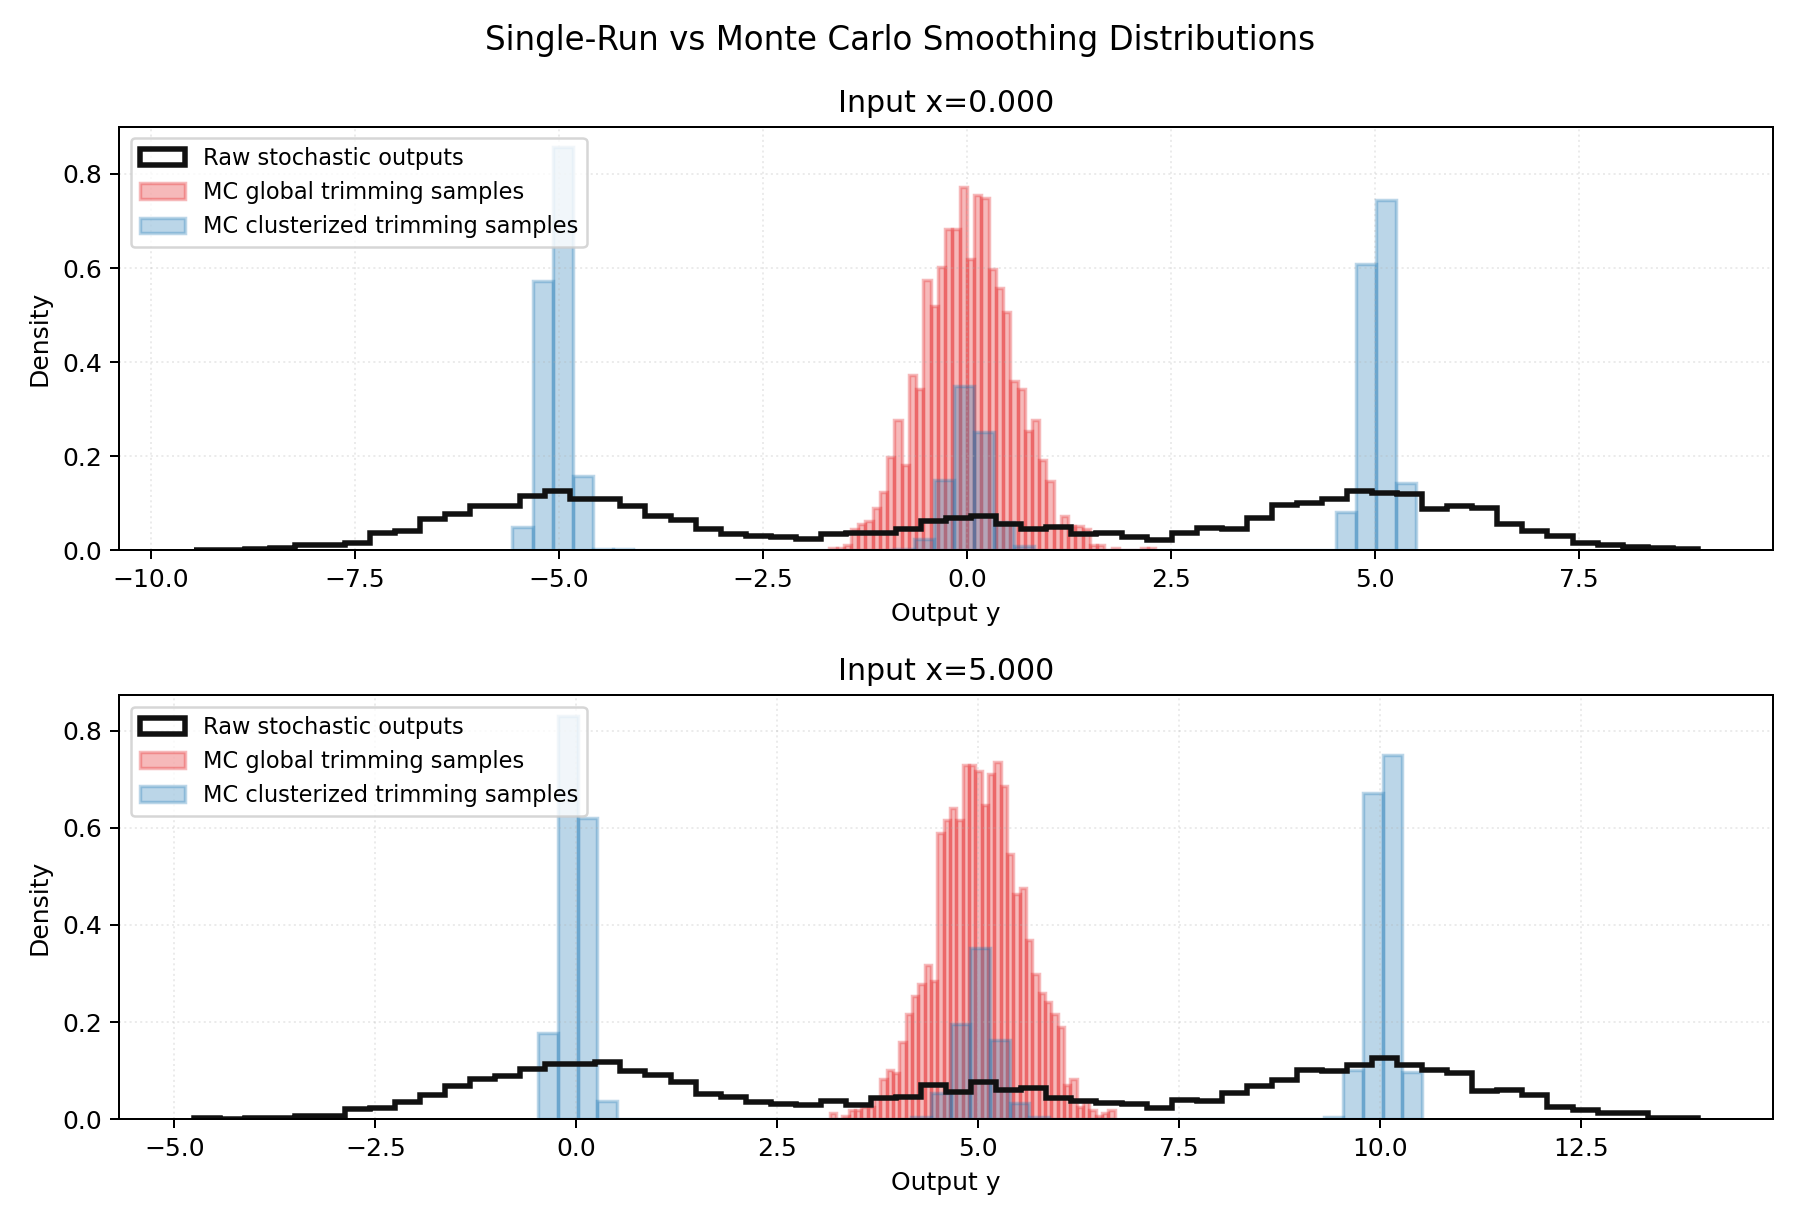
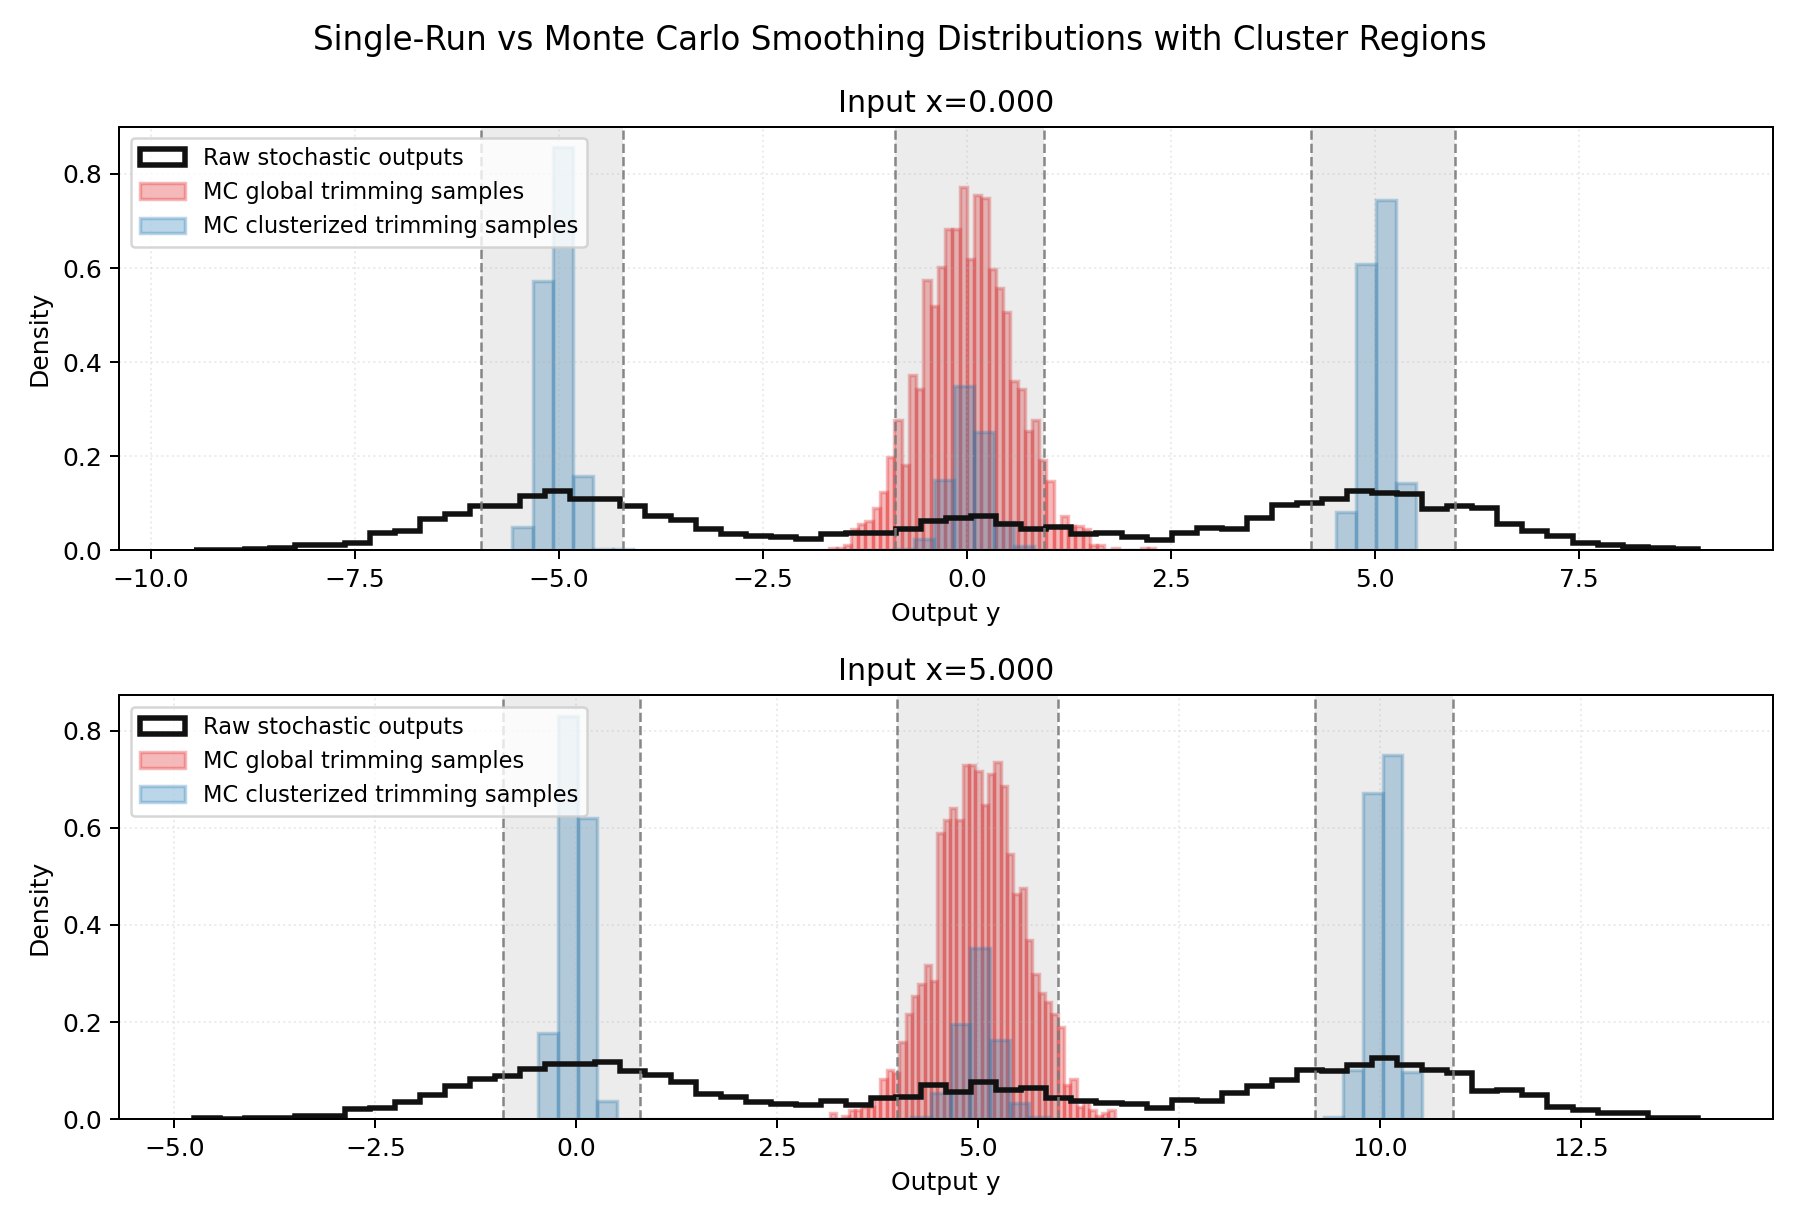
add region definition to experiments

Changed region(s): [[0.1867, 0.0, 0.8089, 0.0621]]

diff --git a/plotting.py b/plotting.py
@@ -17,6 +17,7 @@ def plot_experiment_results(
 	global_trimmed_mc_samples: torch.Tensor,
 	clusterized_mc_samples: torch.Tensor,
 	output_dir: Path,
+	region=None,
 ) -> list[Path]:
 	"""Create and save charts for the smoothing experiment."""
 	output_dir.mkdir(parents=True, exist_ok=True)
@@ -25,6 +26,8 @@ def plot_experiment_results(
 	outputs_np = _to_numpy(outputs[:, :, 0])
 	global_mc_np = _to_numpy(global_trimmed_mc_samples[:, :, 0])
 	clusterized_mc_np = _to_numpy(clusterized_mc_samples[:, :, 0])
+	region_lower_np = _to_numpy(region.lower[:, :, 0]) if region is not None else None
+	region_upper_np = _to_numpy(region.upper[:, :, 0]) if region is not None else None
 
 	m = outputs_np.shape[0]
 	colors = {
@@ -69,13 +72,24 @@ def plot_experiment_results(
 			label="MC clusterized trimming samples",
 		)
 
+		if region_lower_np is not None and region_upper_np is not None:
+			k = region_lower_np.shape[1]
+			region_color = "#7A7A7A"
+			for j in range(k):
+				left = region_lower_np[i, j]
+				right = region_upper_np[i, j]
+				ax.axvspan(left, right, color=region_color, alpha=0.14, lw=0)
+				ax.axvline(left, color=region_color, linestyle="--", linewidth=1.0, alpha=0.9)
+				ax.axvline(right, color=region_color, linestyle="--", linewidth=1.0, alpha=0.9)
+				ax.plot([], [], color=region_color, linewidth=3, alpha=0.7)
+
 		ax.set_title(f"Input x={x_np[i]:.3f}")
 		ax.set_xlabel("Output y")
 		ax.set_ylabel("Density")
 		ax.grid(alpha=0.25, linestyle=":")
 		ax.legend(loc="upper left", fontsize=9)
 
-	fig1.suptitle("Single-Run vs Monte Carlo Smoothing Distributions", fontsize=13)
+	fig1.suptitle("Single-Run vs Monte Carlo Smoothing Distributions with Cluster Regions", fontsize=13)
 	fig1.tight_layout()
 	fig1_path = output_dir / "distribution_comparison.png"
 	fig1.savefig(fig1_path, dpi=180)

diff --git a/main.py b/main.py
@@ -14,6 +14,7 @@ if str(SRC) not in sys.path:
 from randomized_smoothing.clusters import Cluster, ClusterParameters  # noqa: E402
 from randomized_smoothing.distributions import MultivariateGaussian  # noqa: E402
 from randomized_smoothing.examples import ThreeMode1DGaussianMixture  # noqa: E402
+from randomized_smoothing.regions import HyperRectangle  # noqa: E402
 from randomized_smoothing.smoothing import (  # noqa: E402
     AlphaTrimmingSmoothing,
     ClusterizedAlphaTrimmingSmoothing,
@@ -42,6 +43,7 @@ def main() -> None:
     smoothing_distribution = MultivariateGaussian(mean=noise_mean, cov=noise_cov)
 
     alpha = 0.25
+    region_mass = 0.50
     num_empirical_samples = 5000
     num_cluster_samples = 5000
     num_smoother_draws = 2000
@@ -55,6 +57,7 @@ def main() -> None:
         outputs=cluster_outputs,
         params=ClusterParameters(num_clusters=3),
     )
+    region = HyperRectangle.from_samples(samples=cluster_outputs, cluster=cluster, p=region_mass)
 
     alpha_params = SmoothingParameters(
         smoothing_distribution=smoothing_distribution,
@@ -87,6 +90,7 @@ def main() -> None:
         outputs=raw_outputs,
         global_trimmed_mc_samples=global_trimmed_mc_samples,
         clusterized_mc_samples=clusterized_mc_samples,
+        region=region,
         output_dir=ROOT / "outputs",
     )
 
@@ -97,6 +101,7 @@ def main() -> None:
     print(f"clusterized samples shape: {tuple(clusterized_mc_samples.shape)}")
     print(f"cluster centroids: {cluster.centroids.squeeze(0).squeeze(-1).tolist()}")
     print(f"cluster weights: {cluster.weights.squeeze(0).tolist()}")
+    print(f"region bounds shape: {tuple(region.lower.shape)}")
     print("")
     print("Saved charts:")
     for path in chart_paths:
